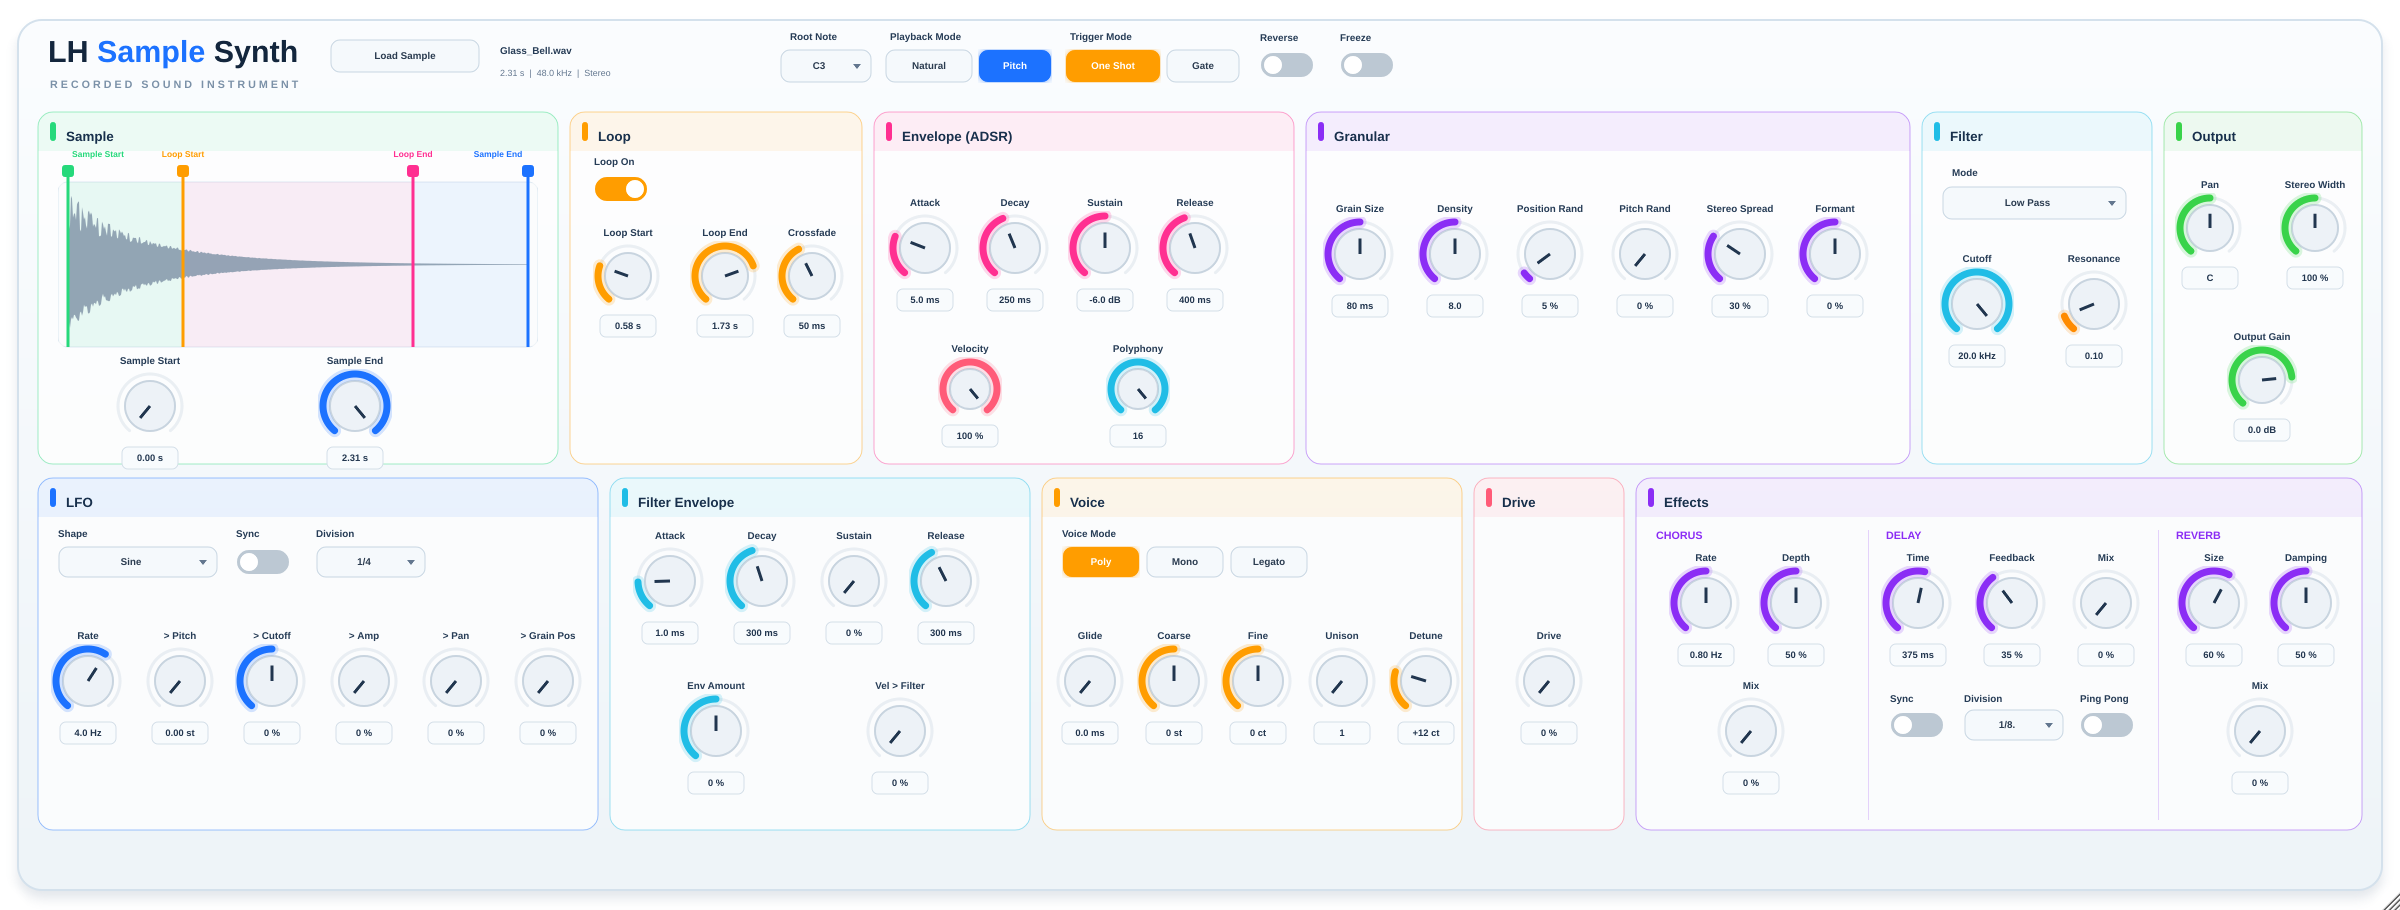
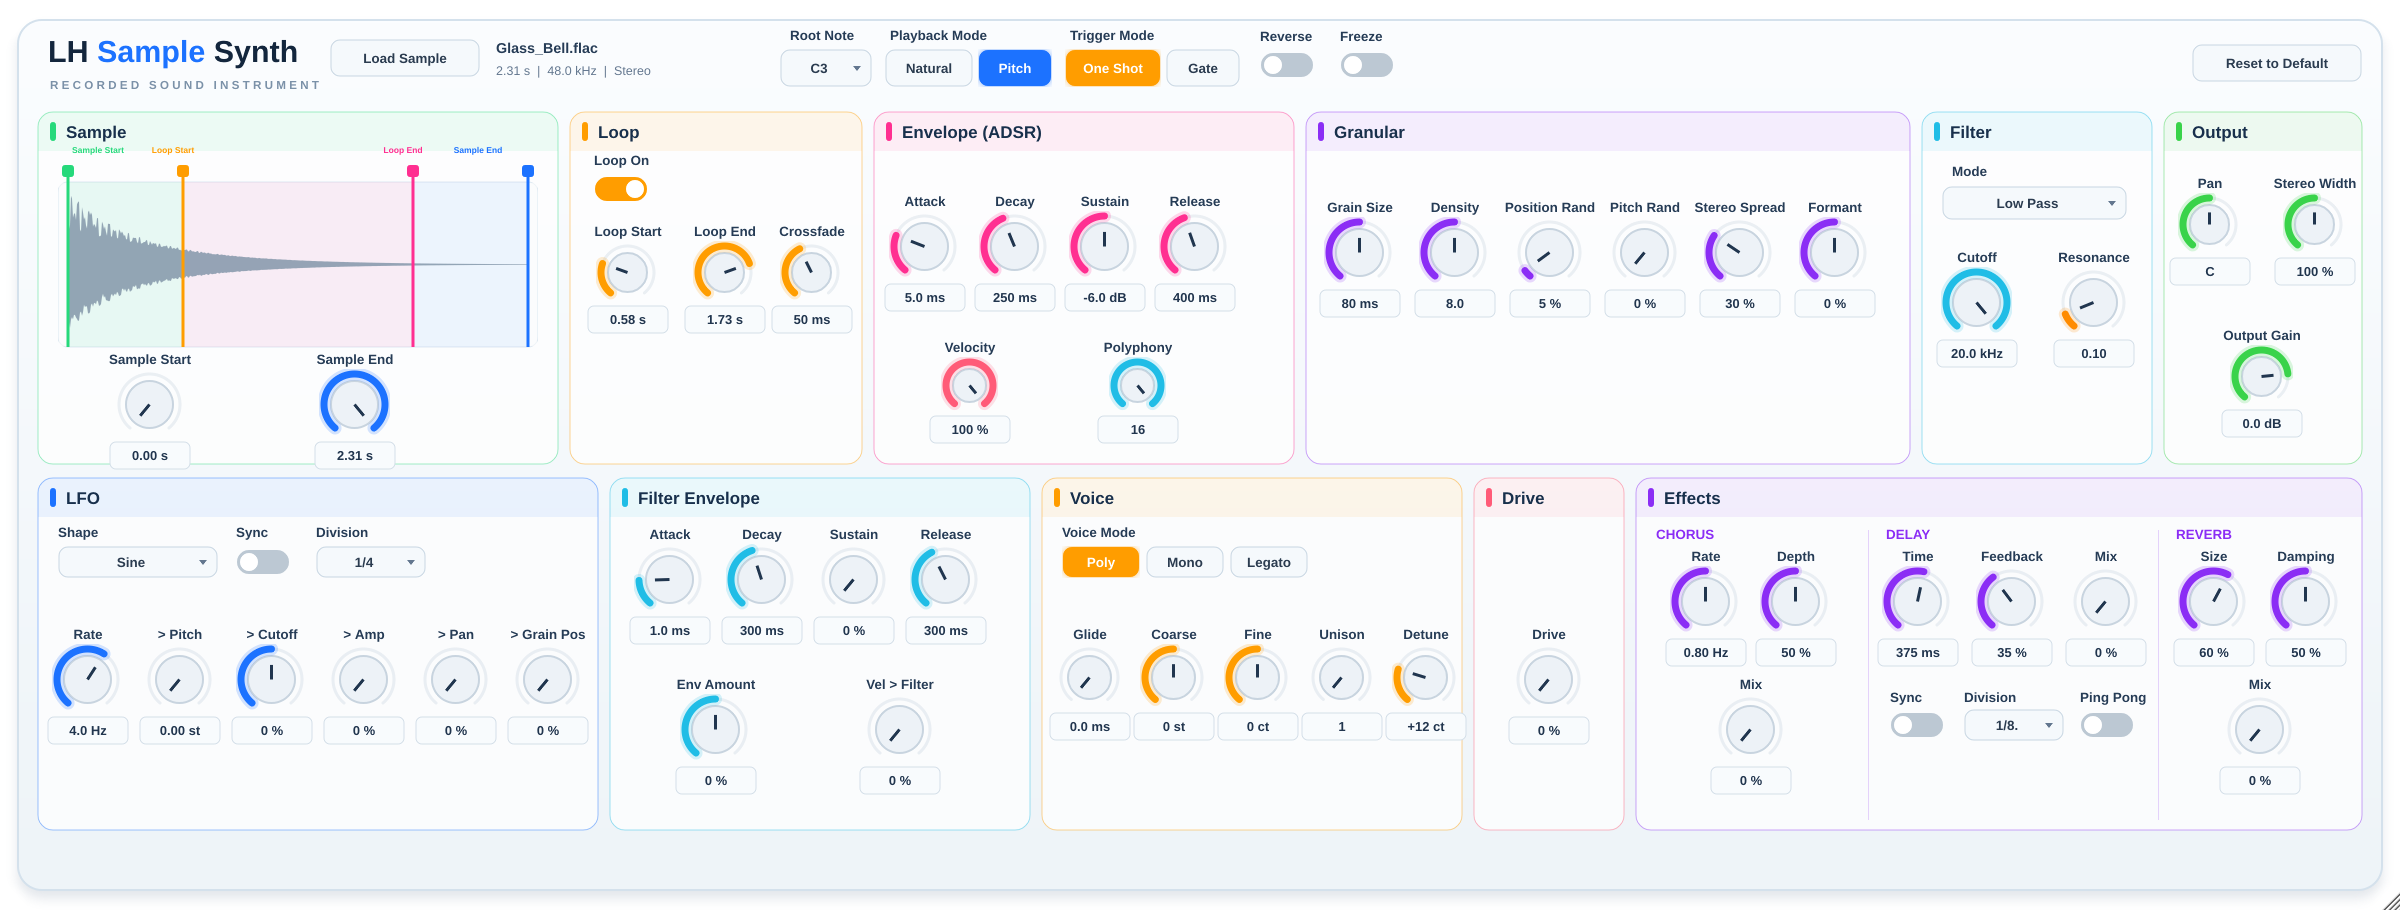
Larger GUI text, Reset to Default button, case-insensitive FLAC/WAV/AIFF file filter

diff --git a/src/PluginEditor.cpp b/src/PluginEditor.cpp
@@ -34,15 +34,15 @@ const Panel panels[] = {
 void drawLabel (juce::Graphics& g, const juce::String& text, int x, int baselineY, int width = 140,
                 juce::Justification j = juce::Justification::left)
 {
-    g.setFont (uiFont (11.0f));
+    g.setFont (uiFont (15.0f));
     g.setColour (col::label);
-    g.drawText (text, x, baselineY - 11, width, 14, j, false);
+    g.drawText (text, x, baselineY - 15, width, 19, j, false);
 }
 
 /** Places a knob centred on cx with its title starting at titleBaseline (design coords). */
-void placeKnob (juce::Component& k, int cx, int titleBaseline, int width = 92, int height = 116)
+void placeKnob (juce::Component& k, int cx, int titleBaseline, int width = 92, int height = 120)
 {
-    k.setBounds (cx - width / 2, titleBaseline - 11, width, height);
+    k.setBounds (cx - width / 2, titleBaseline - 15, width, height);
 }
 } // namespace
 
@@ -69,17 +69,17 @@ void LHSampleSynthEditor::Canvas::paint (juce::Graphics& g)
     title.append ("Sample", uiFont (34.0f), col::blue);
     title.append (" Synth", uiFont (34.0f), col::title);
     title.draw (g, { 48, 34, 290, 42 });
-    g.setFont (uiFont (12.0f));
+    g.setFont (uiFont (13.0f));
     g.setColour (col::subtitle);
-    g.drawText ("R E C O R D E D   S O U N D   I N S T R U M E N T", 50, 77, 300, 14, juce::Justification::left, false);
+    g.drawText ("R E C O R D E D   S O U N D   I N S T R U M E N T", 50, 77, 300, 16, juce::Justification::left, false);
 
     // File info
-    g.setFont (uiFont (11.0f));
+    g.setFont (uiFont (16.0f));
     g.setColour (fileError ? col::error : col::label);
-    g.drawText (fileName, 500, 44, 270, 14, juce::Justification::left, true);
-    g.setFont (uiFont (10.0f, false));
+    g.drawText (fileName, 496, 38, 280, 20, juce::Justification::left, true);
+    g.setFont (uiFont (14.0f, false));
     g.setColour (col::tiny);
-    g.drawText (fileInfo, 500, 66, 270, 14, juce::Justification::left, true);
+    g.drawText (fileInfo, 496, 62, 280, 18, juce::Justification::left, true);
 
     drawLabel (g, "Root Note", 790, 41);
     drawLabel (g, "Playback Mode", 890, 41);
@@ -103,9 +103,9 @@ void LHSampleSynthEditor::Canvas::paint (juce::Graphics& g)
         g.drawRoundedRectangle (r, 15.0f, 1.0f);
         g.setColour (p.colour);
         g.fillRoundedRectangle ((float) p.x + 12.0f, (float) p.y + 10.0f, 6.0f, 19.0f, 3.0f);
-        g.setFont (uiFont (15.0f));
+        g.setFont (uiFont (19.0f));
         g.setColour (col::section);
-        g.drawText (p.title, p.x + 28, p.y + 16, p.w - 40, 16, juce::Justification::left, false);
+        g.drawText (p.title, p.x + 28, p.y + 9, p.w - 40, 22, juce::Justification::left, false);
     }
 
     drawLabel (g, "Loop On", 594, 166);
@@ -119,9 +119,9 @@ void LHSampleSynthEditor::Canvas::paint (juce::Graphics& g)
 
     auto subHeading = [&g] (const char* text, int x, int y, juce::Colour c)
     {
-        g.setFont (uiFont (12.0f));
+        g.setFont (uiFont (15.0f));
         g.setColour (c);
-        g.drawText (text, x, y - 12, 200, 15, juce::Justification::left, false);
+        g.drawText (text, x, y - 15, 200, 19, juce::Justification::left, false);
     };
     subHeading ("CHORUS", 1656, 540, col::purple);
     subHeading ("DELAY", 1886, 540, col::purple);
@@ -133,9 +133,9 @@ void LHSampleSynthEditor::Canvas::paint (juce::Graphics& g)
     drawLabel (g, "Division", 1964, 703);
     drawLabel (g, "Ping Pong", 2080, 703);
 
-    g.setFont (uiFont (10.0f, false));
+    g.setFont (uiFont (14.0f, false));
     g.setColour (col::tiny);
-    g.drawText (footer, 48, 860, 1200, 14, juce::Justification::left, false);
+    g.drawText (footer, 48, 858, 1500, 18, juce::Justification::left, false);
 }
 
 //==============================================================================
@@ -203,7 +203,22 @@ LHSampleSynthEditor::LHSampleSynthEditor (LHSampleSynthProcessor& p)
     addAndMakeVisible (canvas);
 
     loadButton.onClick = [this] { openFileChooser(); };
+    loadButton.setTooltip ("Load a WAV, AIFF, FLAC or OGG file");
     canvas.addAndMakeVisible (loadButton);
+
+    resetButton.setTooltip ("Set every control back to its default (the loaded sample is kept)");
+    resetButton.onClick = [this]
+    {
+        auto options = juce::MessageBoxOptions::makeOptionsOkCancel (
+            juce::MessageBoxIconType::QuestionIcon, "Reset to default",
+            "Set all controls back to their default positions?\nThe loaded sample is kept.",
+            "Reset", "Cancel", this);
+        juce::AlertWindow::showAsync (options, [safe = juce::Component::SafePointer<LHSampleSynthEditor> (this)] (int result)
+        {
+            if (result == 1 && safe != nullptr) safe->processor.resetParametersToDefaults();
+        });
+    };
+    canvas.addAndMakeVisible (resetButton);
 
     for (int n = 0; n < 128; ++n) rootNoteBox.addItem (lhss::midiNoteName (n), n + 1);
     rootNoteBox.onChange = [this] { rootNoteAttachment.setValueAsCompleteGesture ((float) (rootNoteBox.getSelectedId() - 1)); };
@@ -265,7 +280,14 @@ LHSampleSynthEditor::LHSampleSynthEditor (LHSampleSynthProcessor& p)
     setResizable (true, true);
     setResizeLimits (kDesignWidth / 2, kDesignHeight / 2, kDesignWidth * 3 / 2, kDesignHeight * 3 / 2);
     if (auto* c = getConstrainer()) c->setFixedAspectRatio ((double) kDesignWidth / kDesignHeight);
-    setSize (kDesignWidth * 7 / 10, kDesignHeight * 7 / 10);
+    // Open as large as the screen comfortably allows (text scales with the window).
+    double scale = 0.8;
+    if (const auto* display = juce::Desktop::getInstance().getDisplays().getPrimaryDisplay())
+    {
+        const auto area = display->userBounds;
+        scale = juce::jlimit (0.5, 1.0, juce::jmin (area.getWidth() * 0.95 / kDesignWidth, area.getHeight() * 0.88 / kDesignHeight));
+    }
+    setSize (juce::roundToInt (kDesignWidth * scale), juce::roundToInt (kDesignHeight * scale));
     startTimerHz (30);
 }
 
@@ -279,10 +301,11 @@ void LHSampleSynthEditor::layoutCanvas()
 {
     canvas.setBounds (0, 0, kDesignWidth, kDesignHeight);
 
-    loadButton.setBounds (330, 39, 150, 34);
-    rootNoteBox.setBounds (780, 49, 92, 34);
-    playbackMode.setBounds (885, 49, 167, 34);
-    triggerMode.setBounds (1065, 49, 175, 34);
+    loadButton.setBounds (330, 39, 150, 38);
+    resetButton.setBounds (2192, 44, 170, 38);
+    rootNoteBox.setBounds (780, 49, 92, 38);
+    playbackMode.setBounds (885, 49, 167, 38);
+    triggerMode.setBounds (1065, 49, 175, 38);
     reverseSwitch.setBounds (1260, 52, 54, 26);
     freezeSwitch.setBounds (1340, 52, 54, 26);
 

diff --git a/tests/StateTests.cpp b/tests/StateTests.cpp
@@ -205,6 +205,50 @@ public:
                 }
         }
 
+        beginTest ("Reset to default restores every parameter and keeps the sample");
+        {
+            LHSampleSynthProcessor p;
+            expect (p.loadSampleSync (wavFile));
+            for (auto* param : p.getParameters()) param->setValueNotifyingHost (0.83f);
+            p.resetParametersToDefaults();
+            int wrong = 0;
+            for (auto* param : p.getParameters())
+                if (std::abs (param->getValue() - param->getDefaultValue()) > 1.0e-6f) ++wrong;
+            expectEquals (wrong, 0);
+            expect (p.getLoadedSample() != nullptr);
+            expect (p.getSampleStatus().state == LHSampleSynthProcessor::SampleState::Loaded);
+        }
+
+        beginTest ("FLAC files load (16 and 24 bit, upper-case extension)");
+        {
+            for (int bits : { 16, 24 })
+            {
+                const auto flac = dir.getChildFile ("Take_" + juce::String (bits) + ".FLAC");
+                flac.deleteFile();
+                {
+                    auto buffer = test::makeSine (330.0, 0.5, 96000.0, 2);
+                    juce::FlacAudioFormat format;
+                    std::unique_ptr<juce::OutputStream> stream (flac.createOutputStream().release());
+                    auto writer = format.createWriterFor (stream, juce::AudioFormatWriterOptions{}
+                                                                     .withSampleRate (96000.0)
+                                                                     .withNumChannels (2)
+                                                                     .withBitsPerSample (bits));
+                    expect (writer != nullptr);
+                    if (writer != nullptr) writer->writeFromAudioSampleBuffer (buffer, 0, buffer.getNumSamples());
+                }
+                const auto result = lhss::SampleLoader::loadFile (flac);
+                expect (result.ok(), result.error);
+                if (result.ok())
+                {
+                    expectEquals (result.sample->getNumFrames(), 48000);
+                    expectEquals (result.sample->getSampleRate(), 96000.0);
+                }
+            }
+            const auto wildcard = lhss::SampleLoader::supportedWildcard();
+            expect (juce::File ("x.FLAC").getFileName().matchesWildcard ("*.FLAC", false));
+            expect (wildcard.contains ("*.flac") && wildcard.contains ("*.FLAC") && wildcard.contains ("*.Flac"));
+        }
+
         beginTest ("Garbage state data is ignored");
         {
             LHSampleSynthProcessor p;

diff --git a/src/gui/Knob.cpp b/src/gui/Knob.cpp
@@ -26,24 +26,25 @@ Knob::Knob (juce::AudioProcessorValueTreeState& state, const juce::String& param
 void Knob::resized()
 {
     const int h = getHeight();
-    const int dial = h - 16 - 26;
-    slider.setBounds ((getWidth() - dial) / 2, 15, dial, dial);
+    const int dial = juce::jmin (getWidth(), h - kTitleHeight - kBoxHeight - 3);
+    slider.setBounds ((getWidth() - dial) / 2, kTitleHeight, dial, dial);
 }
 
 void Knob::paint (juce::Graphics& g)
 {
-    g.setFont (uiFont (11.0f));
+    g.setFont (uiFont (15.0f));
     g.setColour (colours::label);
-    g.drawText (title, getLocalBounds().removeFromTop (14), juce::Justification::centred, false);
+    g.drawFittedText (title, getLocalBounds().removeFromTop (kTitleHeight - 1), juce::Justification::centred, 1, 0.7f);
 
-    const auto box = juce::Rectangle<float> ((getWidth() - 56) * 0.5f, getHeight() - 23.0f, 56.0f, 22.0f);
+    const float boxW = juce::jmin (80.0f, (float) getWidth() - 2.0f);
+    const auto box = juce::Rectangle<float> ((getWidth() - boxW) * 0.5f, (float) (getHeight() - kBoxHeight - 1), boxW, (float) kBoxHeight);
     g.setColour (colours::boxBg);
     g.fillRoundedRectangle (box, 6.0f);
     g.setColour (colours::boxLine);
     g.drawRoundedRectangle (box, 6.0f, 1.0f);
-    g.setFont (uiFont (10.5f));
+    g.setFont (uiFont (14.5f));
     g.setColour (colours::value);
-    g.drawText (slider.getTextFromValue (slider.getValue()), box, juce::Justification::centred, false);
+    g.drawFittedText (slider.getTextFromValue (slider.getValue()), box.toNearestInt(), juce::Justification::centred, 1, 0.75f);
 }
 
 //==============================================================================

diff --git a/src/gui/WaveformView.cpp b/src/gui/WaveformView.cpp
@@ -139,9 +139,9 @@ void WaveformView::paint (juce::Graphics& g)
 
     if (sample == nullptr || message.isNotEmpty())
     {
-        g.setFont (uiFont (13.0f));
+        g.setFont (uiFont (16.0f));
         g.setColour (messageIsError ? colours::error : colours::tiny);
-        g.drawFittedText (message.isNotEmpty() ? message : juce::String ("Load a WAV / AIFF recording (or drop a file here)"),
+        g.drawFittedText (message.isNotEmpty() ? message : juce::String ("Load a WAV, AIFF, FLAC or OGG recording (or drop a file here)"),
                           area.reduced (20.0f, 10.0f).toNearestInt(), juce::Justification::centred, 3);
     }
 
@@ -159,7 +159,7 @@ void WaveformView::paint (juce::Graphics& g)
         g.fillRect (x - w * 0.5f, (float) kLabelArea - 6.0f, w, area.getBottom() - kLabelArea + 6.0f);
         g.fillRoundedRectangle (x - 6.0f, (float) kLabelArea - 17.0f, 12.0f, 12.0f, 3.0f);
         g.setFont (uiFont (9.5f));
-        const float lx = juce::jlimit (0.0f, (float) getWidth() - 80.0f, x - 40.0f);
+        const float lx = juce::jlimit (0.0f, (float) getWidth() - 100.0f, x - 50.0f);
         g.drawText (markerNames[m], juce::Rectangle<float> (lx, 0.0f, 80.0f, 13.0f), juce::Justification::centred, false);
     }
 }

diff --git a/src/gui/LHLookAndFeel.h b/src/gui/LHLookAndFeel.h
@@ -46,10 +46,10 @@ public:
     void drawToggleButton (juce::Graphics&, juce::ToggleButton&, bool highlighted, bool down) override;
     void drawButtonBackground (juce::Graphics&, juce::Button&, const juce::Colour&, bool highlighted, bool down) override;
     void drawButtonText (juce::Graphics&, juce::TextButton&, bool highlighted, bool down) override;
-    juce::Font getTextButtonFont (juce::TextButton&, int) override { return uiFont (11.0f); }
+    juce::Font getTextButtonFont (juce::TextButton&, int) override { return uiFont (15.0f); }
     void drawComboBox (juce::Graphics&, int w, int h, bool down, int bx, int by, int bw, int bh, juce::ComboBox&) override;
-    juce::Font getComboBoxFont (juce::ComboBox&) override { return uiFont (11.0f); }
+    juce::Font getComboBoxFont (juce::ComboBox&) override { return uiFont (15.0f); }
     void positionComboBoxText (juce::ComboBox&, juce::Label&) override;
-    juce::Font getPopupMenuFont() override { return uiFont (13.0f, false); }
+    juce::Font getPopupMenuFont() override { return uiFont (16.0f, false); }
 };
 } // namespace lhss::gui

diff --git a/src/gui/LHLookAndFeel.cpp b/src/gui/LHLookAndFeel.cpp
@@ -107,7 +107,7 @@ void LHLookAndFeel::drawButtonBackground (juce::Graphics& g, juce::Button& b, co
 
 void LHLookAndFeel::drawButtonText (juce::Graphics& g, juce::TextButton& b, bool, bool)
 {
-    g.setFont (uiFont (11.0f));
+    g.setFont (uiFont (15.0f));
     g.setColour (b.getToggleState() ? juce::Colours::white : juce::Colour (0xff2b3c50));
     g.drawText (b.getButtonText(), b.getLocalBounds(), juce::Justification::centred, false);
 }
@@ -130,7 +130,7 @@ void LHLookAndFeel::drawComboBox (juce::Graphics& g, int w, int h, bool, int, in
 void LHLookAndFeel::positionComboBoxText (juce::ComboBox& box, juce::Label& label)
 {
     label.setBounds (box.getLocalBounds().withTrimmedRight (14));
-    label.setFont (uiFont (11.0f));
+    label.setFont (uiFont (15.0f));
     label.setJustificationType (juce::Justification::centred);
 }
 } // namespace lhss::gui

diff --git a/src/engine/SampleLoader.cpp b/src/engine/SampleLoader.cpp
@@ -2,7 +2,20 @@
 
 namespace lhss
 {
-juce::String SampleLoader::supportedWildcard() { return "*.wav;*.wave;*.aif;*.aiff;*.aifc;*.flac;*.ogg"; }
+juce::String SampleLoader::supportedWildcard()
+{
+    // Native Linux dialogs (zenity) match patterns case-sensitively, so list every casing
+    // users actually have on disk (e.g. "Track.FLAC", "Take.Wav").
+    juce::StringArray patterns;
+    for (auto ext : { "wav", "wave", "aif", "aiff", "aifc", "flac", "ogg" })
+    {
+        const juce::String e (ext);
+        patterns.addIfNotAlreadyThere ("*." + e);
+        patterns.addIfNotAlreadyThere ("*." + e.toUpperCase());
+        patterns.addIfNotAlreadyThere ("*." + e.substring (0, 1).toUpperCase() + e.substring (1));
+    }
+    return patterns.joinIntoString (";");
+}
 
 SampleLoader::Result SampleLoader::loadFile (const juce::File& file)
 {

diff --git a/src/PluginProcessor.cpp b/src/PluginProcessor.cpp
@@ -203,6 +203,17 @@ bool LHSampleSynthProcessor::waitForPendingLoads (int timeoutMs)
     return true;
 }
 
+void LHSampleSynthProcessor::resetParametersToDefaults()
+{
+    for (auto* p : getParameters())
+        if (auto* ranged = dynamic_cast<juce::RangedAudioParameter*> (p))
+        {
+            ranged->beginChangeGesture();
+            ranged->setValueNotifyingHost (ranged->getDefaultValue());
+            ranged->endChangeGesture();
+        }
+}
+
 void LHSampleSynthProcessor::timerCallback() { sampleStore.collectGarbage (engine); }
 
 //==============================================================================

diff --git a/src/PluginProcessor.h b/src/PluginProcessor.h
@@ -59,6 +59,9 @@ public:
     std::shared_ptr<const lhss::SampleData> getLoadedSample() const { return sampleStore.latest(); }
     SampleStatus getSampleStatus() const;
 
+    /** Sets every parameter back to its default (with host gestures). The loaded sample is kept. */
+    void resetParametersToDefaults();
+
     juce::AudioProcessorValueTreeState& getAPVTS() noexcept { return apvts; }
     juce::ChangeBroadcaster& getSampleBroadcaster() noexcept { return sampleBroadcaster; }
     lhss::EngineParams readParameters() const noexcept;

diff --git a/src/gui/WaveformView.h b/src/gui/WaveformView.h
@@ -27,7 +27,7 @@ public:
     void mouseDrag (const juce::MouseEvent&) override;
     void mouseUp (const juce::MouseEvent&) override;
 
-    static constexpr int kLabelArea = 34;
+    static constexpr int kLabelArea = 38;
 
 private:
     enum Marker { SampleStart = 0, SampleEnd, LoopStart, LoopEnd, NumMarkers, None = -1 };

diff --git a/src/gui/Knob.h b/src/gui/Knob.h
@@ -12,6 +12,9 @@ public:
           const juce::String& title, juce::Colour accent);
 
     juce::Slider& getSlider() noexcept { return slider; }
+
+    static constexpr int kTitleHeight = 19;
+    static constexpr int kBoxHeight = 27;
     void paint (juce::Graphics&) override;
     void resized() override;
 

diff --git a/src/PluginEditor.h b/src/PluginEditor.h
@@ -48,6 +48,7 @@ private:
     Canvas canvas;
 
     juce::TextButton loadButton { "Load Sample" };
+    juce::TextButton resetButton { "Reset to Default" };
     juce::ComboBox rootNoteBox;
     juce::ParameterAttachment rootNoteAttachment;
     lhss::gui::ChoiceSegment playbackMode, triggerMode;
